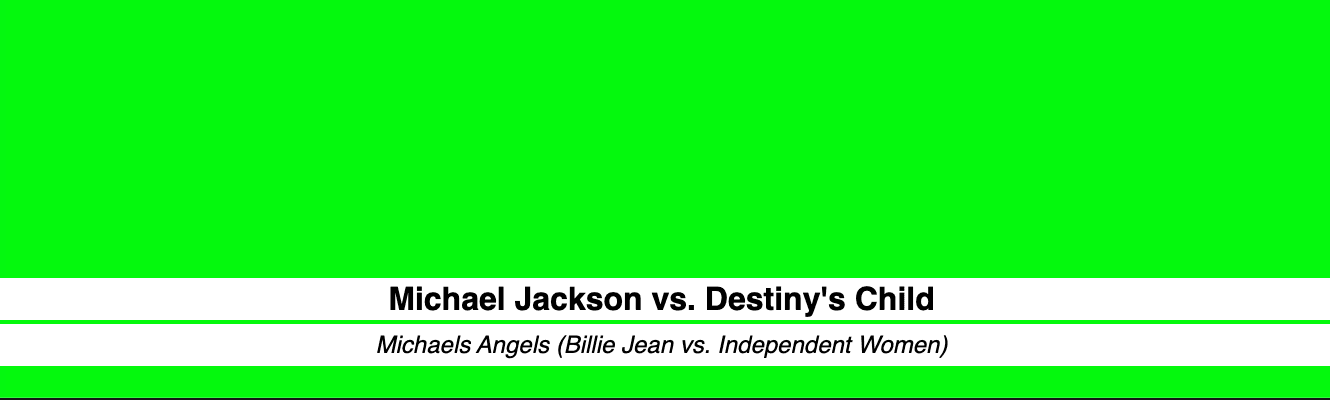
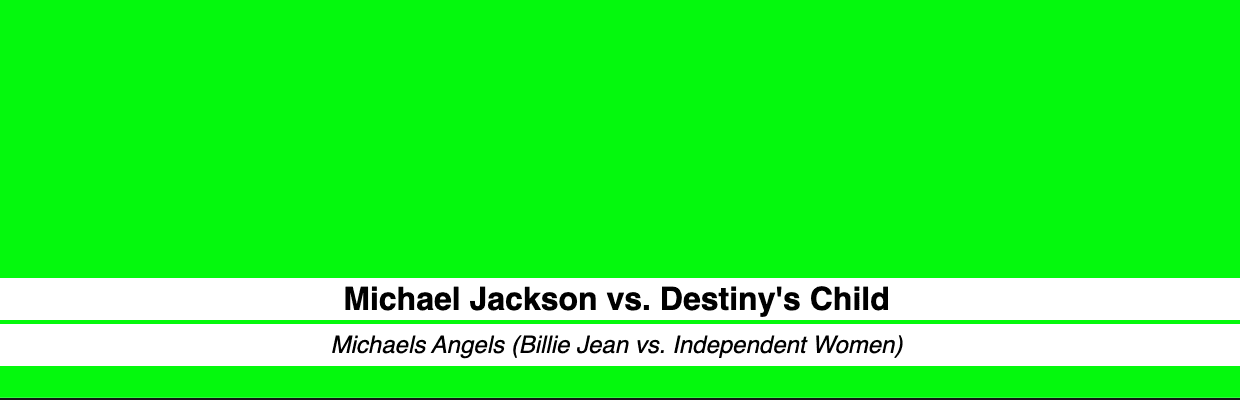
Screenshots updated to 1240-wide

Changed region(s): [[0.2758, 0.69, 0.7355, 0.78], [0.2452, 0.84, 0.7355, 0.9]]

diff --git a/README.md b/README.md
@@ -27,7 +27,7 @@ So... in case You're are still here, You're **exactly** the kind of tinkerer who
 # Samples
 
 * [Shell scripting](shell-script/) on *nix family (Linux, Mac OSX, etc.)
-* [Python](python/) ... there's also another version of the Python-client on branch ```python-with-json-to-txt```, however, the reason that hasn't been merged to the ```master``` branch is that the code doesn't seem to handle non-ASCII characters in track-/artist-names properly at this time. I'm fairly certain this is simply because I'm not casting the data properly, but since my experience with Python is limited, I haven't spent too much time looking into that. PRs are welcome.
+* [Python](python/) ... on *nix family (Linux, Mac OSX, etc.) ... and Windows (assuming You've got functional WSL, "Windows Subsystem for Linux") with Python3.
 
 # Common gotchas
 
